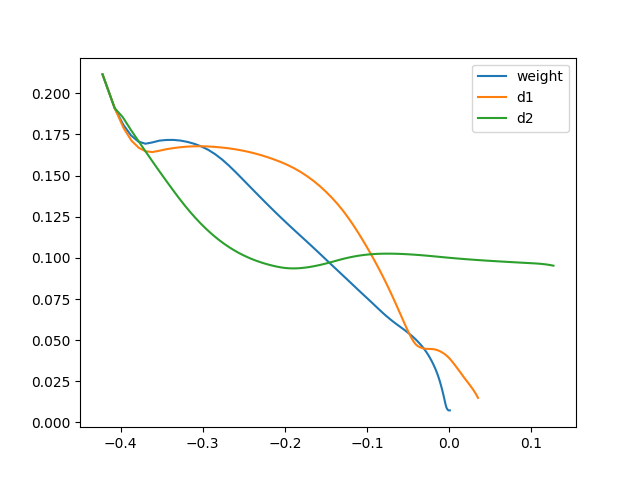
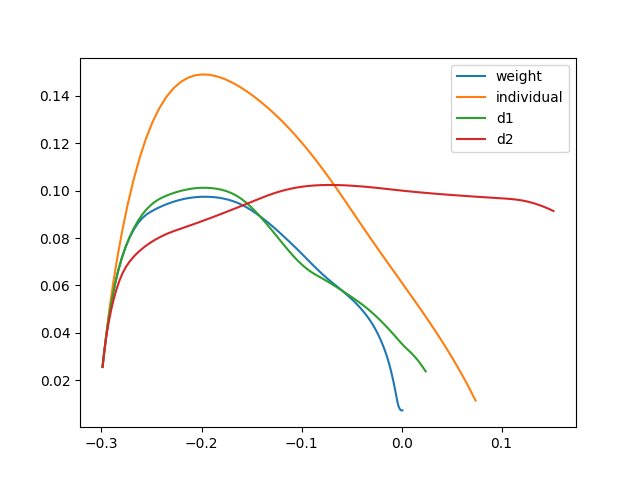
Distill

diff --git a/newexp/DDQN_whole.py b/newexp/DDQN_whole.py
@@ -3,7 +3,7 @@
 import numpy as np
 import torch
 import torch.nn as nn
-from Model import Actor, IndividualModel
+from Model import Actor, IndividualModel, Individualdistill
 import time
 import torch.optim as optim
 import random
@@ -62,7 +62,7 @@ model_2 = IndividualModel(state_size=3, action_size=1, seed=0, fc1_units=50).to(
 model_2.load_state_dict(torch.load("./actors/actor_1.0_2800.pth"))
 model_2.eval()
 
-Individual = IndividualModel(state_size=3, action_size=1, seed=0).to(device)
+Individual = Individualdistill(state_size=3, action_size=1, seed=0).to(device)
 
 agent = Agent(state_size=3, action_size=2, random_seed=0, fc1_units=None, fc2_units=None, weighted=True)
 
@@ -320,13 +320,12 @@ def test(adapter_name=None, state_list=None, renew=False, mode='switch', INDI_NA
 
 # distill to get an individual controller supervised by multiple controller with the adapter trained by Double DQN
 def distill(adapter_name, INDI_NAME):
-	assert EXP1 == True
-	optimizer = torch.optim.SGD(Individual.parameters(), lr = 0.001, momentum=0.9)
+	optimizer = torch.optim.Adam(Individual.parameters())
 	loss_func = torch.nn.MSELoss()
-	env = Osillator()
+	env = Newenv()
 	model = Weight_adapter(3, 2).to(device)
 	model.load_state_dict(torch.load(adapter_name))
-	EP_NUM = 500
+	EP_NUM = 1500
 
 	for ep in range(EP_NUM):
 		ep_loss = 0
@@ -345,7 +344,7 @@ def distill(adapter_name, INDI_NAME):
 			optimizer.step()
 			ep_loss += loss.item()     
 
-			next_state, reward, done = env.step(control_action.cpu().data.numpy()[0])
+			next_state, reward, done = env.step(control_action.cpu().data.numpy()[0], smoothness=1)
 			state = next_state
 			if done:
 				break
@@ -357,8 +356,11 @@ if __name__ == '__main__':
 	# assert False
 	# train_adapter_hard()
 	# assert False
-	# state_list = np.load('init_state_1.npy')
-	_, weight_fuel, state_list  = test('./adapter_soft/adapter_1600_5.0_exce.pth', state_list=[], renew=True, mode='weight')
+	# distill('./adapter_soft/adapter_1600_5.0_exce.pth', 'Indimodel.pth')
+	# assert False
+	state_list = np.load('init_state_1.npy')
+	_, weight_fuel, _  = test('./adapter_soft/adapter_1600_5.0_exce.pth', state_list=state_list, renew=False, mode='weight')
+	_, indi_fuel, _ = test(None, state_list=state_list, renew=False, mode='individual', INDI_NAME='Indimodel.pth')
 	# _, plan_fuel, _ = test(None, state_list=state_list, renew=False, mode='planning')
 	# _, avg_fuel, _ = test(None, state_list=state_list, renew=False, mode='average')
 	_, d1_fuel, _  = test(None, state_list=state_list, renew=False, mode='d1')
@@ -366,5 +368,5 @@ if __name__ == '__main__':
 	# print(np.mean(weight_fuel), np.mean(sw_fuel), np.mean(plan_fuel),np.mean(avg_fuel), np.mean(d1_fuel), np.mean(d2_fuel), 
 	# 	 len(weight_fuel), len(sw_fuel), len(plan_fuel), len(avg_fuel), len(d1_fuel), len(d2_fuel))
 	# print(np.mean(indi_fuel), len(indi_fuel))
-	print(np.mean(weight_fuel), np.mean(d1_fuel), np.mean(d2_fuel), len(weight_fuel), len(d1_fuel), len(d2_fuel))
-	np.save('init_state.npy', np.array(state_list))
+	print(np.mean(weight_fuel), np.mean(indi_fuel), np.mean(d1_fuel), np.mean(d2_fuel), 
+		len(weight_fuel), len(indi_fuel), len(d1_fuel), len(d2_fuel))

diff --git a/newexp/Model.py b/newexp/Model.py
@@ -105,6 +105,22 @@ class IndividualModel(nn.Module):
         x = torch.tanh(self.fc2(x))
         return x
 
+class Individualdistill(nn.Module):
+    def __init__(self, state_size, action_size, seed, fc1_units=50):
+        super(Individualdistill, self).__init__()
+        self.fc1 = nn.Linear(state_size, fc1_units)
+        self.fc2 = nn.Linear(fc1_units, action_size)
+        self.seed = torch.manual_seed(seed)
+
+    def reset_parameters(self):
+        self.fc1.weight.data.uniform_(*hidden_init(self.fc1))
+        self.fc2.weight.data.uniform_(-3e-3, 3e-3)
+
+    def forward(self, x):
+        x = F.relu(self.fc1(x))
+        x = self.fc2(x)
+        return x
+
 if __name__ == '__main__':
     from thop import profile
     net = Actor(2, 1, 0).to('cuda')
